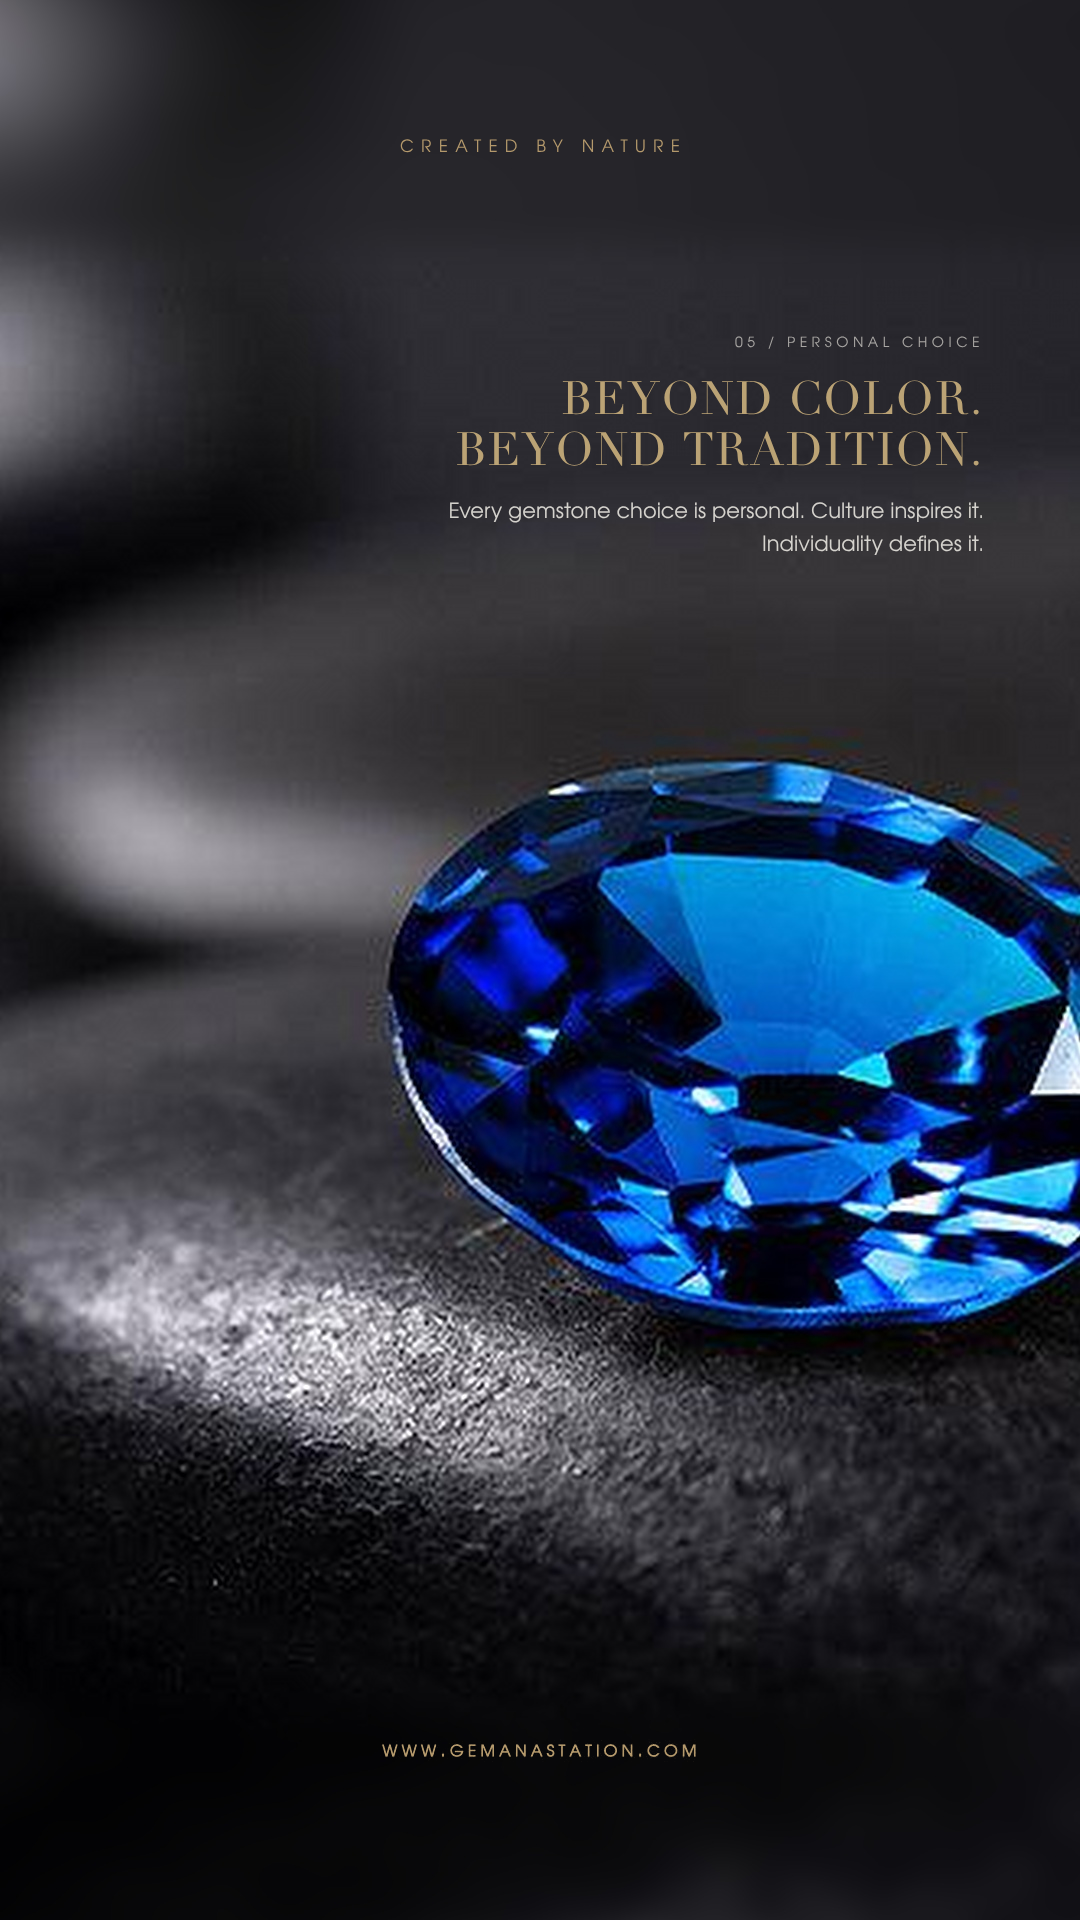
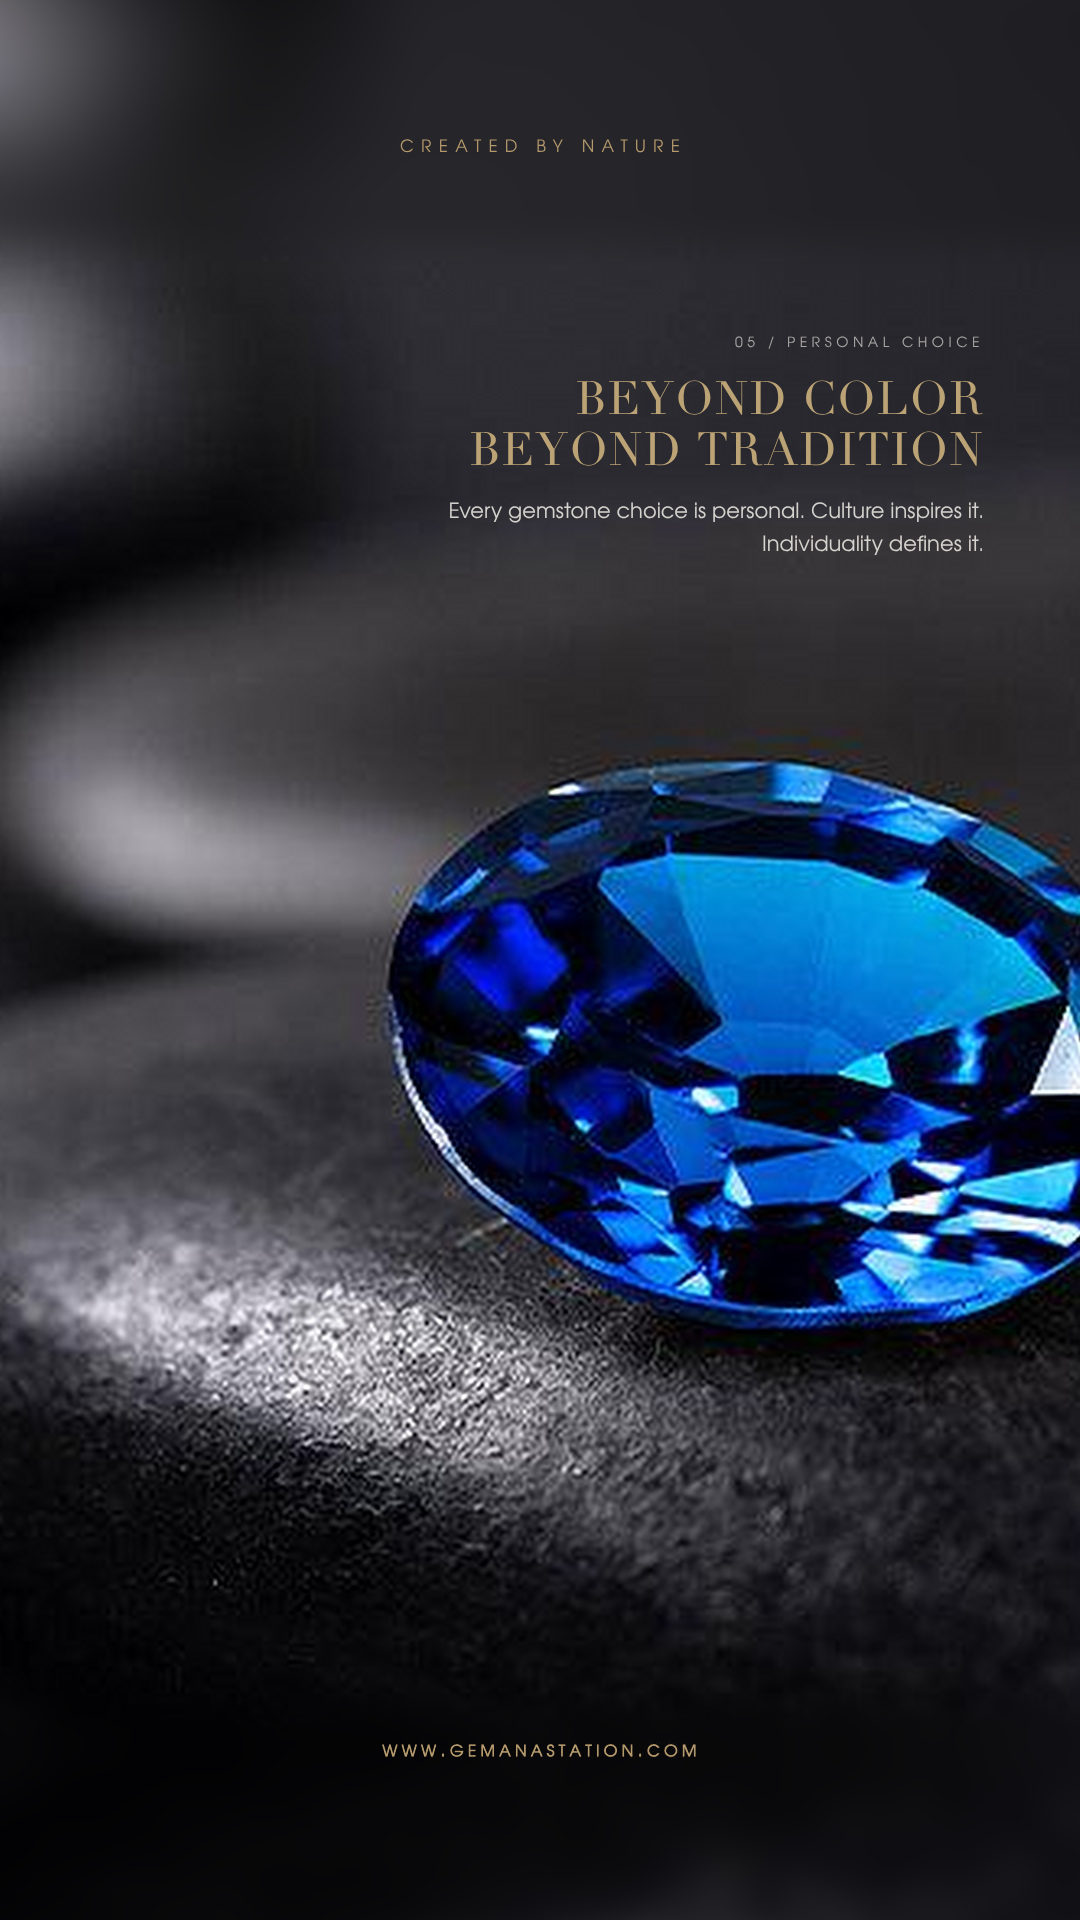
Cultural Choice: no full stop at the end of headlines (posts and Stories)
Claude-Session: https://claude.ai/code/session_01DPJpbdE4xE8Jg3JGMEEyZy

Changed region(s): [[0.4278, 0.1875, 0.9167, 0.25]]

diff --git a/gem-anastation-reels/cultural_choice/slides_story.html b/gem-anastation-reels/cultural_choice/slides_story.html
@@ -22,7 +22,7 @@
   <div class="rubric">Created by Nature</div>
   <div class="group" style="left:96px; top:336px; width:440px; text-align:left">
     <div class="idx">01 / China</div>
-    <h1>Green is more<br>than a color.</h1>
+    <h1>Green is more<br>than a color</h1>
     <p>In Chinese tradition, jade symbolizes virtue, protection and enduring value.</p>
   </div>
   <img class="url" src="build/url_on_dark.png" alt="www.gemanastation.com">
@@ -31,7 +31,7 @@
   <div class="rubric">Created by Nature</div>
   <div class="group" style="right:96px; top:279px; width:380px; text-align:right">
     <div class="idx">02 / Southeast Asia</div>
-    <h1>The power<br>of red.</h1>
+    <h1>The power<br>of red</h1>
     <p>Across Southeast Asia, rubies and red spinels have long been treasured for their beauty and associations with vitality and good fortune.</p>
   </div>
   <img class="url" src="build/url_on_dark.png" alt="www.gemanastation.com">
@@ -40,7 +40,7 @@
   <div class="rubric">Created by Nature</div>
   <div class="group" style="left:96px; top:427px; width:440px; text-align:left">
     <div class="idx">03 / India</div>
-    <h1>The language<br>of emeralds.</h1>
+    <h1>The language<br>of emeralds</h1>
     <p>In India, emeralds hold a special place where cultural traditions, personal beliefs and astrology meet.</p>
   </div>
   <img class="url" src="build/url_on_dark.png" alt="www.gemanastation.com">
@@ -49,7 +49,7 @@
   <div class="rubric">Created by Nature</div>
   <div class="group" style="right:96px; top:1387px; width:560px; text-align:right">
     <div class="idx">04 / Asia today</div>
-    <h1>Tradition evolves.</h1>
+    <h1>Tradition evolves</h1>
     <p>From vivid orange spessartines to neon-blue gemstones, contemporary tastes are expanding Asia’s traditional color palette.</p>
   </div>
   <img class="url" src="build/url_on_dark.png" alt="www.gemanastation.com">
@@ -58,7 +58,7 @@
   <div class="rubric">Created by Nature</div>
   <div class="group" style="right:96px; top:336px; width:560px; text-align:right">
     <div class="idx">05 / Personal choice</div>
-    <h1>Beyond color.<br>Beyond tradition.</h1>
+    <h1>Beyond color<br>Beyond tradition</h1>
     <p>Every gemstone choice is personal. Culture inspires it. Individuality defines it.</p>
   </div>
   <img class="url" src="build/url_on_dark.png" alt="www.gemanastation.com">

diff --git a/gem-anastation-reels/cultural_choice/slides.html b/gem-anastation-reels/cultural_choice/slides.html
@@ -22,7 +22,7 @@
   <div class="rubric">Created by Nature</div>
   <div class="group" style="left:96px; top:236px; width:440px; text-align:left">
     <div class="idx">01 / China</div>
-    <h1>Green is more<br>than a color.</h1>
+    <h1>Green is more<br>than a color</h1>
     <p>In Chinese tradition, jade symbolizes virtue, protection and enduring value.</p>
   </div>
   <img class="url" src="build/url_on_dark.png" alt="www.gemanastation.com">
@@ -31,7 +31,7 @@
   <div class="rubric">Created by Nature</div>
   <div class="group" style="right:96px; top:196px; width:380px; text-align:right">
     <div class="idx">02 / Southeast Asia</div>
-    <h1>The power<br>of red.</h1>
+    <h1>The power<br>of red</h1>
     <p>Across Southeast Asia, rubies and red spinels have long been treasured for their beauty and associations with vitality and good fortune.</p>
   </div>
   <img class="url" src="build/url_on_dark.png" alt="www.gemanastation.com">
@@ -40,7 +40,7 @@
   <div class="rubric">Created by Nature</div>
   <div class="group" style="left:96px; top:300px; width:440px; text-align:left">
     <div class="idx">03 / India</div>
-    <h1>The language<br>of emeralds.</h1>
+    <h1>The language<br>of emeralds</h1>
     <p>In India, emeralds hold a special place where cultural traditions, personal beliefs and astrology meet.</p>
   </div>
   <img class="url" src="build/url_on_dark.png" alt="www.gemanastation.com">
@@ -49,7 +49,7 @@
   <div class="rubric">Created by Nature</div>
   <div class="group" style="right:96px; top:975px; width:560px; text-align:right">
     <div class="idx">04 / Asia today</div>
-    <h1>Tradition evolves.</h1>
+    <h1>Tradition evolves</h1>
     <p>From vivid orange spessartines to neon-blue gemstones, contemporary tastes are expanding Asia’s traditional color palette.</p>
   </div>
   <img class="url" src="build/url_on_dark.png" alt="www.gemanastation.com">
@@ -58,7 +58,7 @@
   <div class="rubric">Created by Nature</div>
   <div class="group" style="right:96px; top:236px; width:560px; text-align:right">
     <div class="idx">05 / Personal choice</div>
-    <h1>Beyond color.<br>Beyond tradition.</h1>
+    <h1>Beyond color<br>Beyond tradition</h1>
     <p>Every gemstone choice is personal. Culture inspires it. Individuality defines it.</p>
   </div>
   <img class="url" src="build/url_on_dark.png" alt="www.gemanastation.com">
